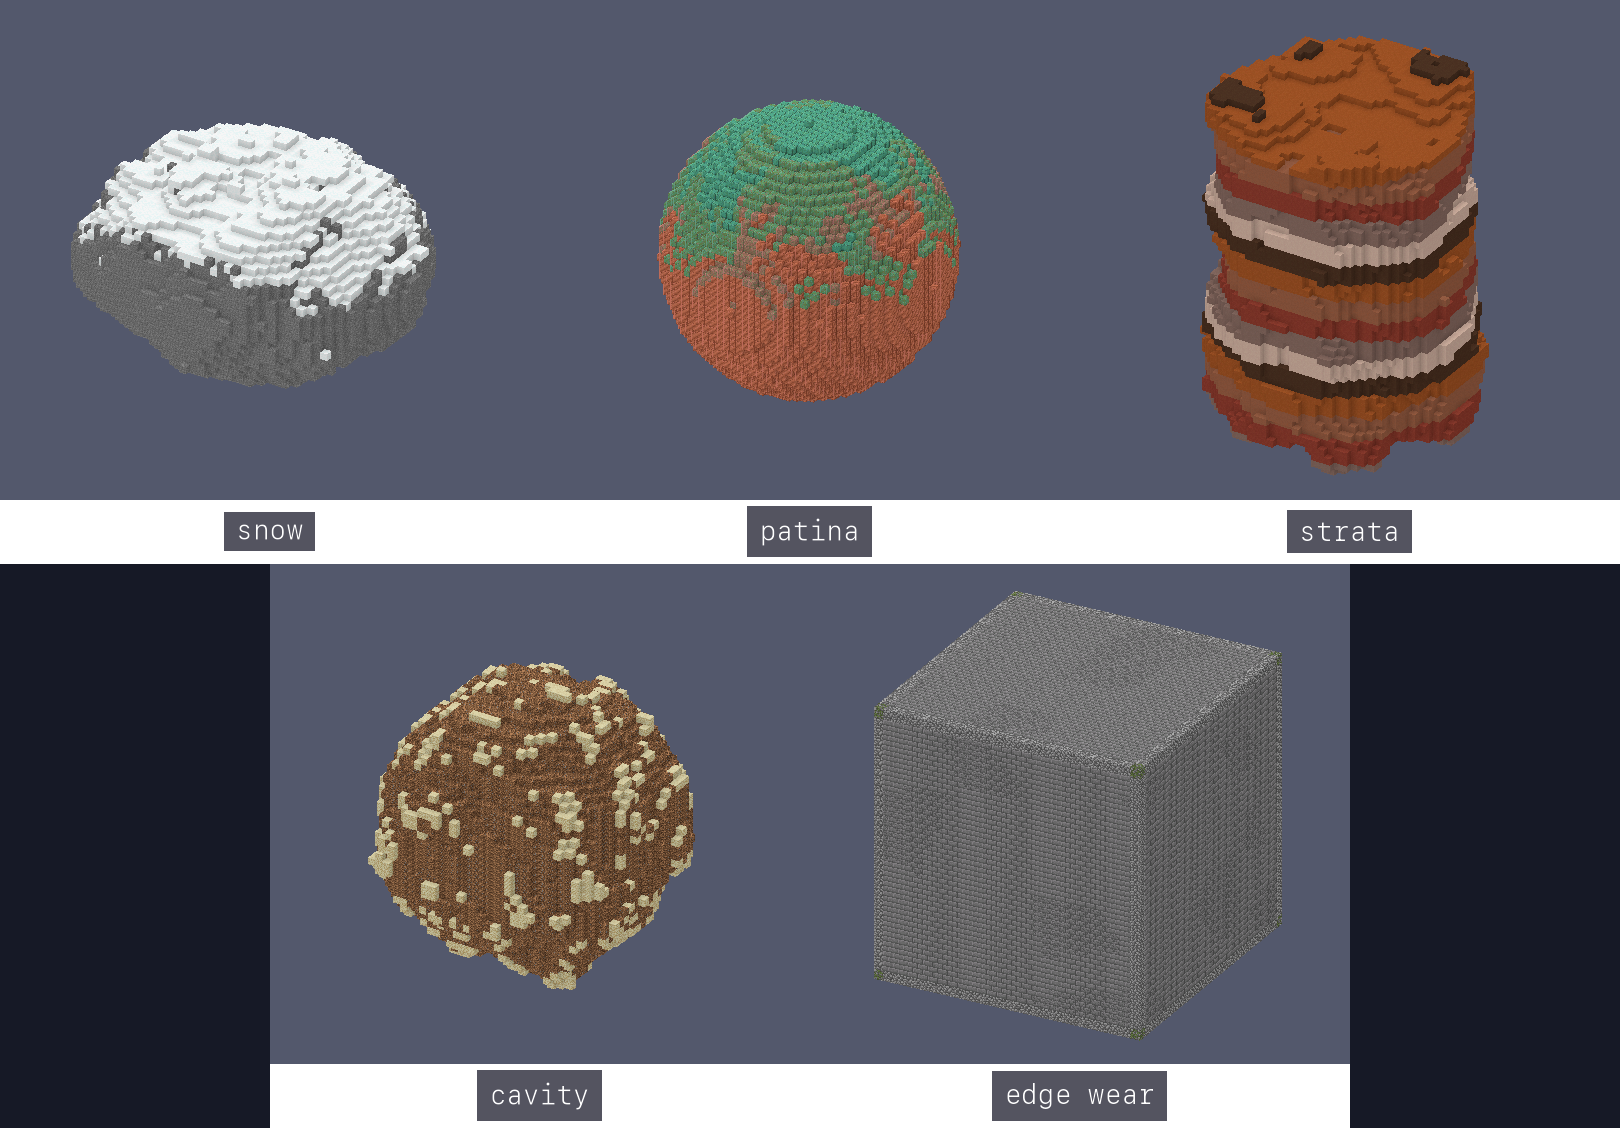
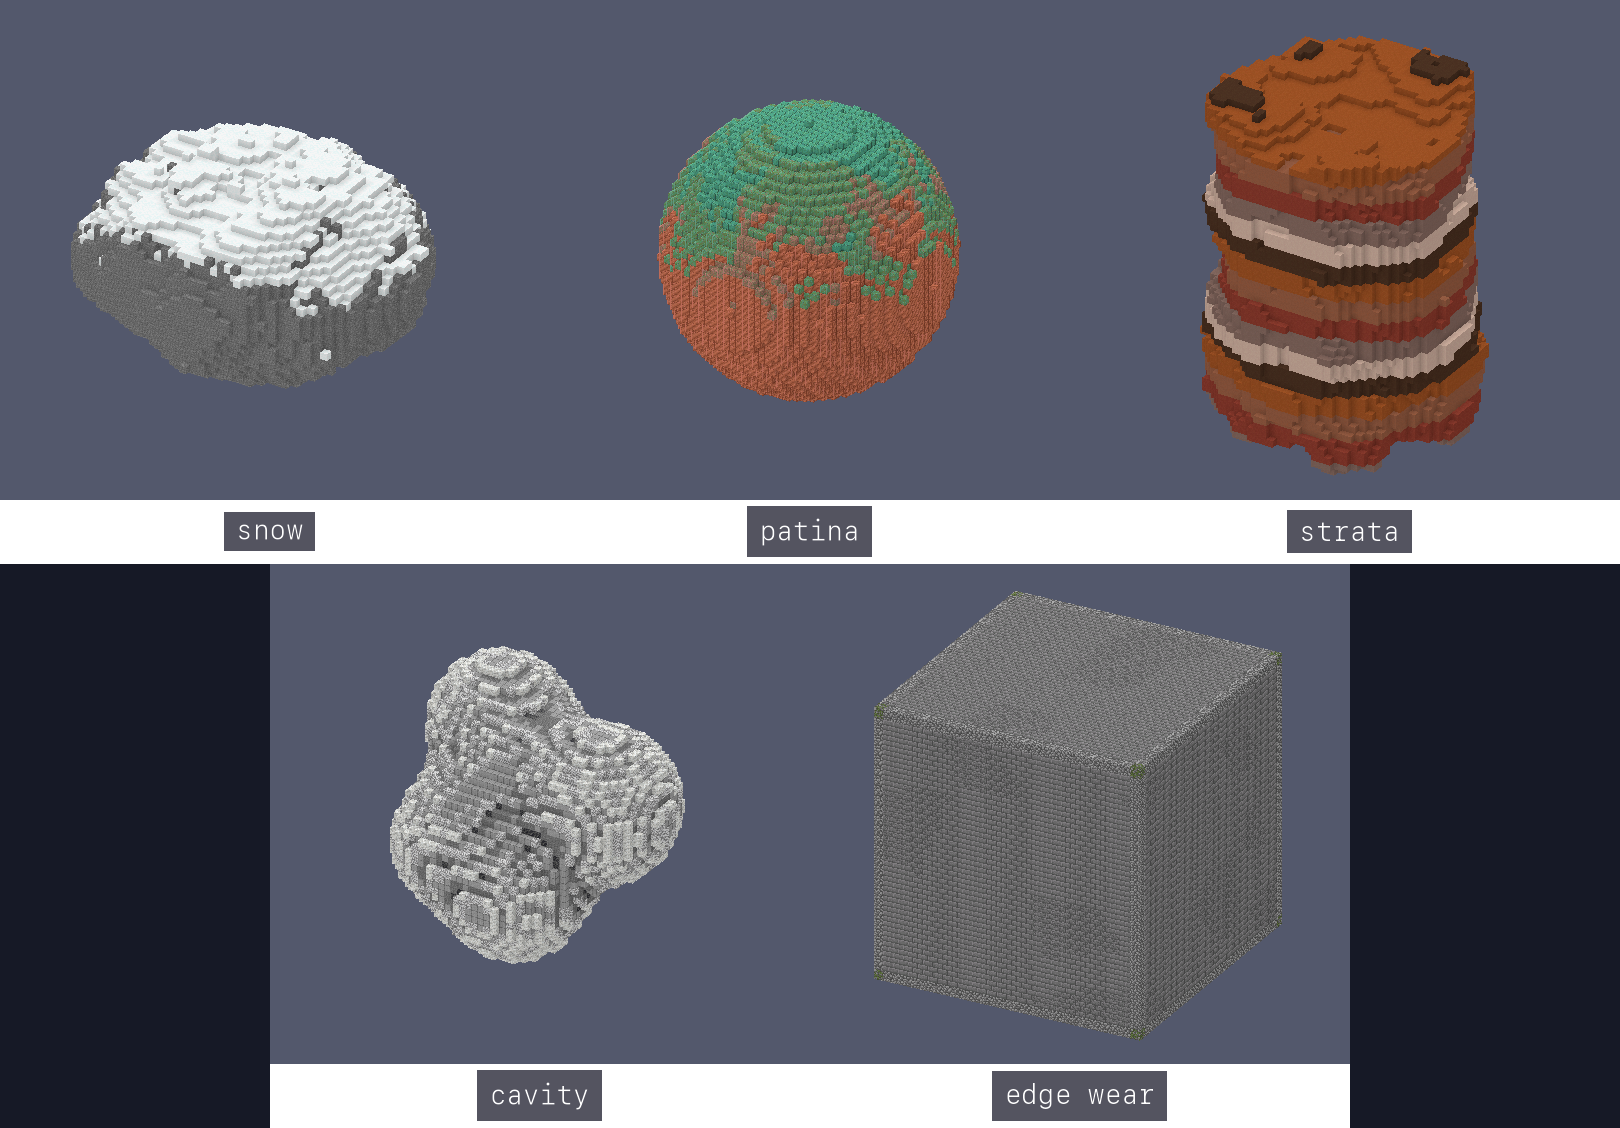
media: fix slope + cavity coloring
- slope: the DistanceField normal is degenerate on a 1-block terrain skin
  (quantized into slope bands, hence the ugly coarse-dirt contour stripes). Use
  the height-field gradient (the right normal for a heightmap) and a natural
  grass/rock rule with a jittered line and sparse bare patches. README code
  updated; DistanceField.slope stays for solid volumes (naturalise, snow, patina).
- cavity: swap the lumpy sphere + dirt palette for a smooth concave blob and a
  neutral light->dark shading palette, with distance-weighted occlusion, so it
  reads as ambient occlusion instead of random speckle.

Changed region(s): [[0.216, 0.5585, 0.4321, 0.8998]]

diff --git a/tools/readme-media/generate.py b/tools/readme-media/generate.py
@@ -2429,11 +2429,12 @@ def scene_voronoi_planet(pack):
 
 
 def scene_slope(pack):
-    """Painting by the surface normal, read straight from the toolbox. Build a
-    stone landscape, take a `DistanceField` of it, and its `slope` (the upward
-    component of the surface normal) picks the material: flat ground takes grass,
-    steepening slopes take coarse dirt then bare stone, snow on the flat peaks.
-    The same field works on any build, not just a heightmap."""
+    """Painting by the surface normal. On a heightmap the normal is the gradient
+    of the heights (for a solid build, `DistanceField.slope` gives it directly);
+    its upward component decides the ground cover. Gentle ground greens over,
+    steep faces stay rock with a little scree, snow caps the high flats. A patch
+    field jitters the grass line and drops the odd bare spot so it reads natural,
+    not as contour bands."""
     import math
     W = 112
 
@@ -2443,26 +2444,28 @@ def scene_slope(pack):
         h += 1.5 * math.cos(x * 0.23) * math.cos(z * 0.26 + 0.5)   # fine
         return h
 
-    tops = {}
+    hmap = [[height(x, z) for z in range(W)] for x in range(W)]
+    patch = json.dumps({"type": "cells", "frequency": 0.11, "seed": 6, "mode": "value"})
     s = nu.Schematic.create("terrain")
-    for x in range(W):
-        for z in range(W):
-            top = round(height(x, z))
-            tops[(x, z)] = top
-            s.fill_cuboid(x, top - 6, z, x, top, z, "minecraft:stone")
-
-    field = nu.DistanceField.from_schematic(s)                 # depth + normal of the terrain
-    for (x, z), top in tops.items():
-        ny = field.slope(x, top, z)                            # 1 flat, ->0 vertical
-        if ny > 0.86:                                          # flat: soil (snow when high)
-            surf = "minecraft:snow_block" if top > 16 else "minecraft:grass_block"
-            s.fill_cuboid(x, top - 2, z, x, top - 1, z, "minecraft:dirt")
-        elif ny > 0.72:                                        # gentle: patchy dirt
-            surf = "minecraft:coarse_dirt"
-            s.fill_cuboid(x, top - 2, z, x, top - 1, z, "minecraft:dirt")
-        else:                                                 # steep: bare rock
-            surf = "minecraft:stone"
-        s.set_block(x, top, z, surf)
+    for x in range(1, W - 1):
+        for z in range(1, W - 1):
+            top = round(hmap[x][z])
+            dx = hmap[x + 1][z] - hmap[x - 1][z]
+            dz = hmap[x][z + 1] - hmap[x][z - 1]
+            ny = 2.0 / math.sqrt(dx * dx + dz * dz + 4.0)     # smooth surface-normal.y
+            n = nu.Sdf.eval(patch, x + 0.5, 0.0, z + 0.5)     # 0..1 patchiness
+            s.fill_cuboid(x, top - 5, z, x, top - 1, z, "minecraft:stone")
+            if ny > 0.82 - 0.05 * (2 * n - 1):                # green cover (jittered line)
+                s.fill_cuboid(x, top - 3, z, x, top - 1, z, "minecraft:dirt")
+                if top > 17 and ny > 0.93:
+                    surf = "minecraft:snow_block"
+                elif n > 0.88:
+                    surf = "minecraft:coarse_dirt"            # occasional bare patch
+                else:
+                    surf = "minecraft:grass_block"
+            else:                                             # rock face, some scree
+                surf = "minecraft:gravel" if n > 0.85 else "minecraft:stone"
+            s.set_block(x, top, z, surf)
     render(s, pack, os.path.join(OUT, "slope-paint.png"), w=1100, h=680,
            yaw=210, pitch=38, zoom=1.3, sphere_fit=True, background=NAVY)
     return s
@@ -2541,23 +2544,31 @@ def scene_treatments(pack):
         mesa.set_block(x, y, z, bands[((y + 40) // 3) % len(bands)])
     panel(mesa, "strata")
 
-    # 4. CAVITY: ambient occlusion, recesses darken by how enclosed they are.
-    lump = nu.Schematic.create("lump")
-    fill(lump, nu.Shape.sdf('{"type":"displace","amplitude":5,"frequency":0.13,"seed":8,'
-                            '"child":{"type":"sphere","radius":18}}'),
-         nu.Brush.solid("minecraft:sandstone"))
-    occ = _solid_set(lump)
-    dfp = nu.Palette.from_block_ids(json.dumps([
-        "minecraft:smooth_sandstone", "minecraft:sandstone", "minecraft:cut_sandstone",
-        "minecraft:brown_terracotta", "minecraft:dirt", "minecraft:coarse_dirt"])).dithered()
+    # 4. CAVITY: ambient occlusion, the valleys where lobes meet darken by how
+    # enclosed they are, read as neutral shading (not dirt).
+    lobes = [(0, 0, 0, 13), (13, 4, 2, 11), (-9, 6, -7, 10), (4, -8, 10, 10), (-6, -4, 9, 9)]
+    parts = [f'{{"type":"translate","offset":[{a},{b},{c}],"child":{{"type":"sphere","radius":{r}}}}}'
+             for a, b, c, r in lobes]
+    blob_sdf = parts[0]
+    for p in parts[1:]:
+        blob_sdf = f'{{"type":"smoothUnion","k":6.0,"a":{blob_sdf},"b":{p}}}'
+    blob = nu.Schematic.create("blob")
+    fill(blob, nu.Shape.sdf(blob_sdf), nu.Brush.solid("minecraft:smooth_stone"))
+    occ = _solid_set(blob)
+    shade = nu.Palette.from_block_ids(json.dumps([
+        "minecraft:calcite", "minecraft:diorite", "minecraft:smooth_stone",
+        "minecraft:stone", "minecraft:cobbled_deepslate", "minecraft:deepslate",
+        "minecraft:polished_blackstone"])).dithered()
+    off = [(dx, dy, dz, 1.0 / (1 + abs(dx) + abs(dy) + abs(dz)))
+           for dx in range(-3, 4) for dy in range(-3, 4) for dz in range(-3, 4)]
+    wtot = sum(w for *_, w in off)
     cav = nu.Schematic.create("cavity")
-    off = [(dx, dy, dz) for dx in (-2, -1, 0, 1, 2) for dy in (-2, -1, 0, 1, 2)
-           for dz in (-2, -1, 0, 1, 2)]
     for (x, y, z) in occ:
-        n = sum((x + dx, y + dy, z + dz) in occ for dx, dy, dz in off) / len(off)
-        v = int(235 - 150 * n)                                  # enclosed -> dark
-        cav.set_block(x, y, z, dfp.closest_block_dithered(v, int(v * 0.9), int(v * 0.72), x, y, z))
-    panel(cav, "cavity")
+        ao = sum(w for dx, dy, dz, w in off if (x + dx, y + dy, z + dz) in occ) / wtot
+        t = min(1.0, max(0.0, (ao - 0.45) / 0.32))              # exposed -> occluded
+        v = int(232 - 196 * t)
+        cav.set_block(x, y, z, shade.closest_block_dithered(v, v, v, x, y, z))
+    panel(cav, "cavity", zoom=1.05)
 
     # 5. EDGE WEAR: corners and edges chip by how many faces are exposed.
     nb = [(1, 0, 0), (-1, 0, 0), (0, 1, 0), (0, -1, 0), (0, 0, 1), (0, 0, -1)]

diff --git a/README.md b/README.md
@@ -246,15 +246,14 @@ through tuff to andesite, with the lava pool sitting in the crater.
 <img src="https://raw.githubusercontent.com/Schem-at/Nucleation/master/docs/media/cross-section.png" width="720" alt="The volcano island sliced through the crater, exposing the lava pool and the stone strata inside">
 </div>
 
-Materials can also key on the **surface normal**, not just height and depth. A
-`DistanceField` reads it off any build (`slope` is its upward component), so a
-landscaping rule paints by steepness: flat ground takes grass, steepening slopes
-take coarse dirt then bare stone, and the flat peaks catch snow.
+Materials can also key on the **surface normal**, not just height and depth. On a
+heightmap it is the gradient of the heights; on a solid build `DistanceField`'s
+`slope` gives it directly. Its upward component decides the ground cover: gentle
+ground greens over, steep faces stay rock, snow caps the flat peaks.
 
 ```python
-field = DistanceField.from_schematic(terrain)     # depth + normal of any build
-ny = field.slope(x, top, z)                        # 1 flat, ->0 vertical
-surf = "grass_block" if ny > 0.86 else "coarse_dirt" if ny > 0.72 else "stone"
+ny = 2 / math.hypot(h[x+1] - h[x-1], h[z+1] - h[z-1], 2)   # upward normal: 1 flat, ->0 vertical
+surf = "grass_block" if ny > 0.82 else "stone"             # + snow on high flats, scree on rock
 ```
 
 <div align="center">